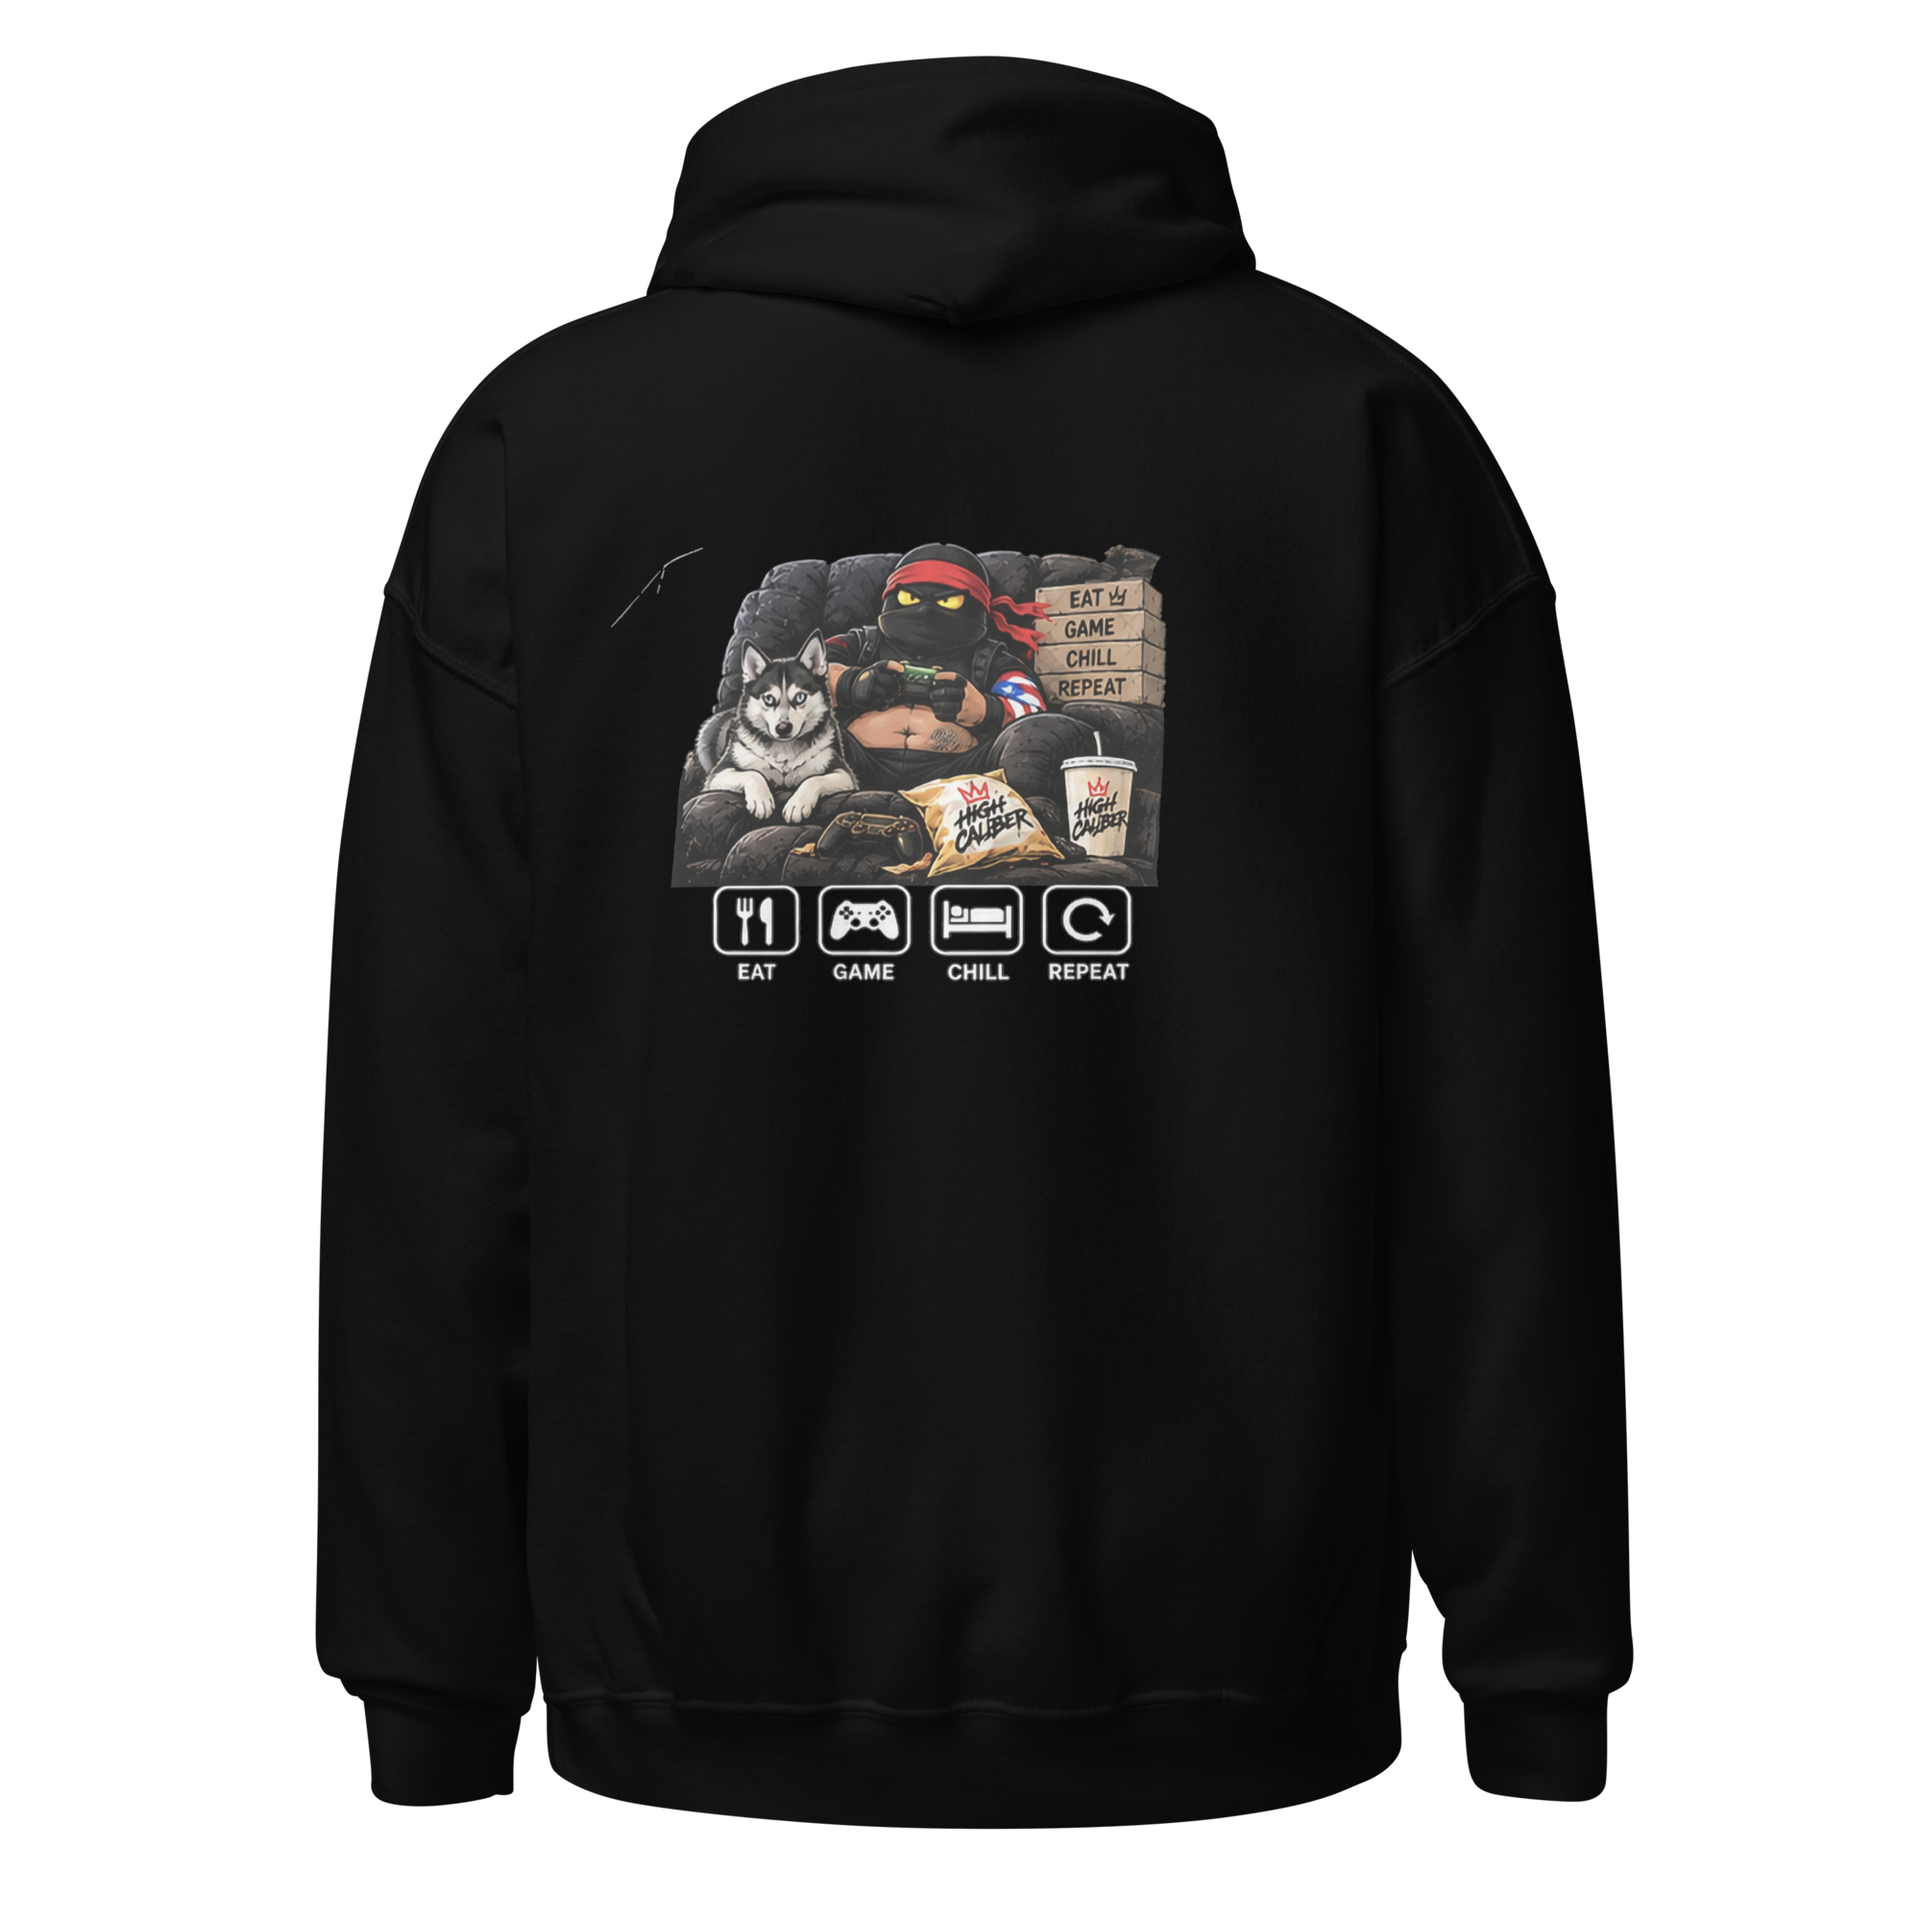
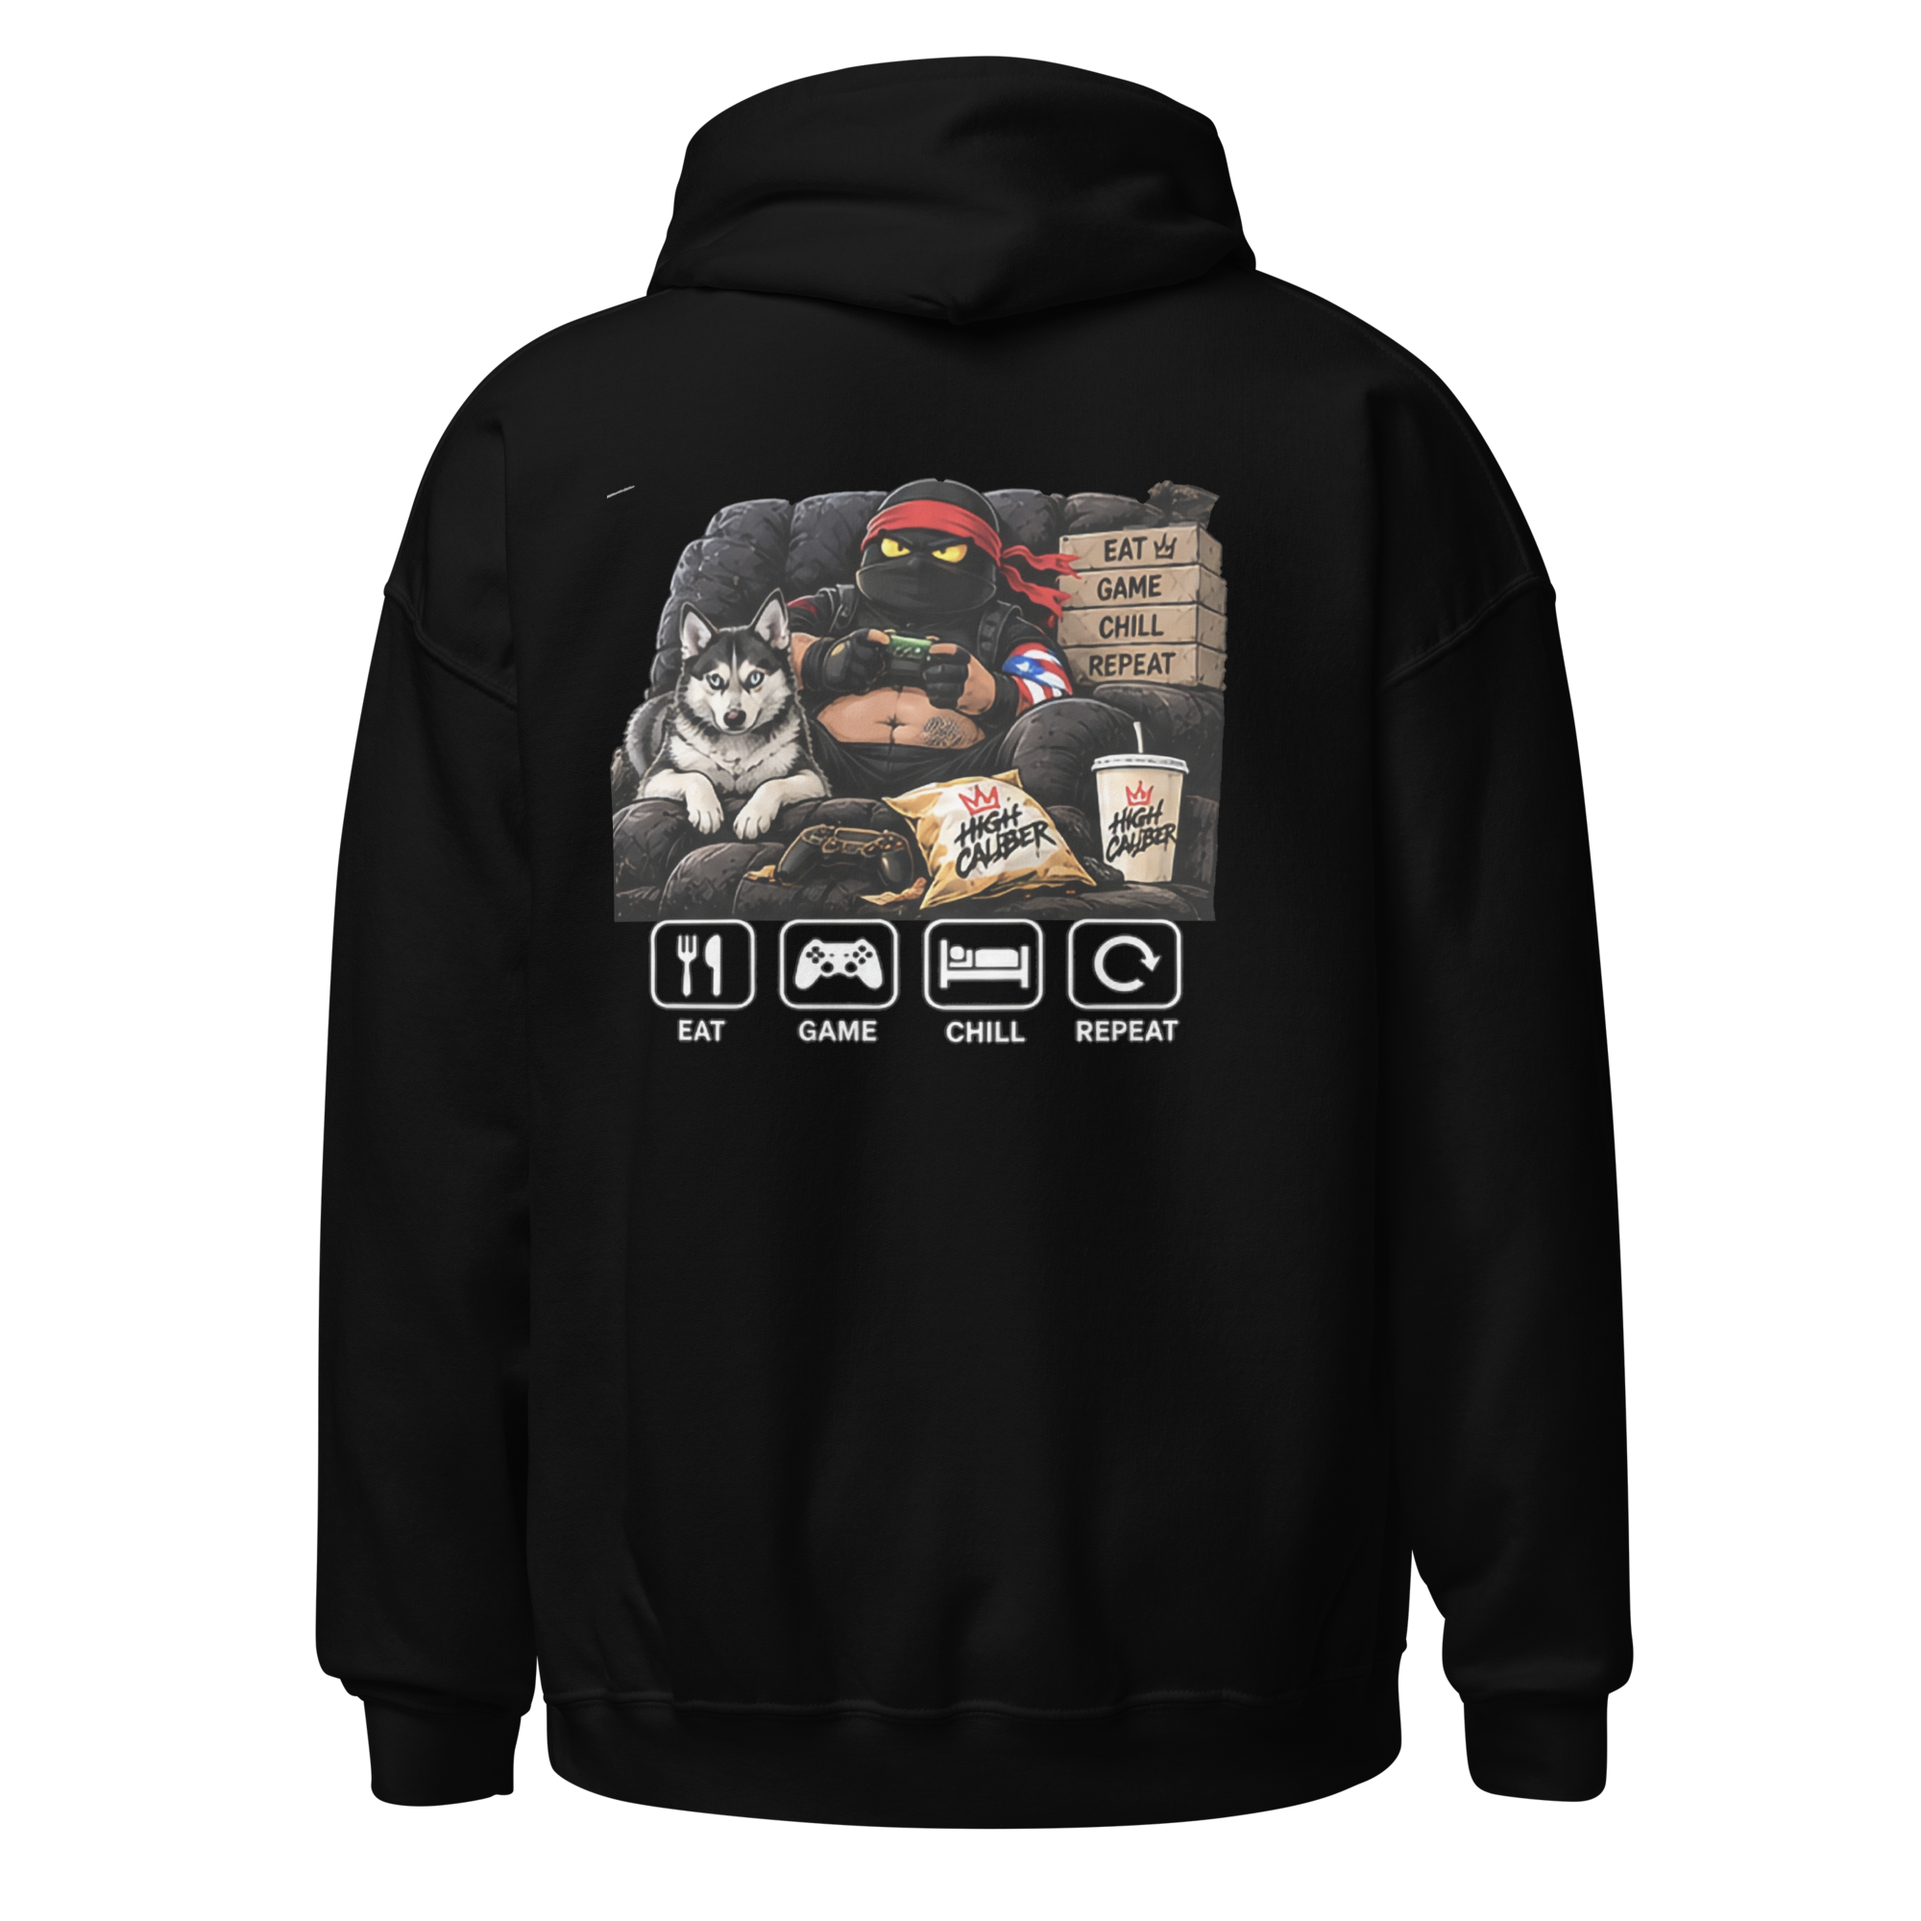
Add official Clock In hoodie mockups and enlarge Snacks back

Changed region(s): [[0.31, 0.248, 0.651, 0.558]]

diff --git a/src/lib/catalog.ts b/src/lib/catalog.ts
@@ -275,8 +275,8 @@ export const products: Product[] = [
       'Same El Gordo Ninja MMA cage artwork as the Clock In. Square Up. tee — CLOCK IN. SQUARE UP. — on a Gildan-style heavy blend hoodie via Printful (Gildan 18500). Large back art + left-chest High Caliber logo. Pick your blank color.',
     price: 59.99,
     images: [
-      asset('/images/clock-in-back.png'),
-      asset('/images/clock-in-front.png'),
+      asset('/images/clock-in-hoodie-back.png'),
+      asset('/images/clock-in-hoodie-front.png'),
     ],
     colors: [...GARMENT_COLORS],
     colorLabel: 'Black',
